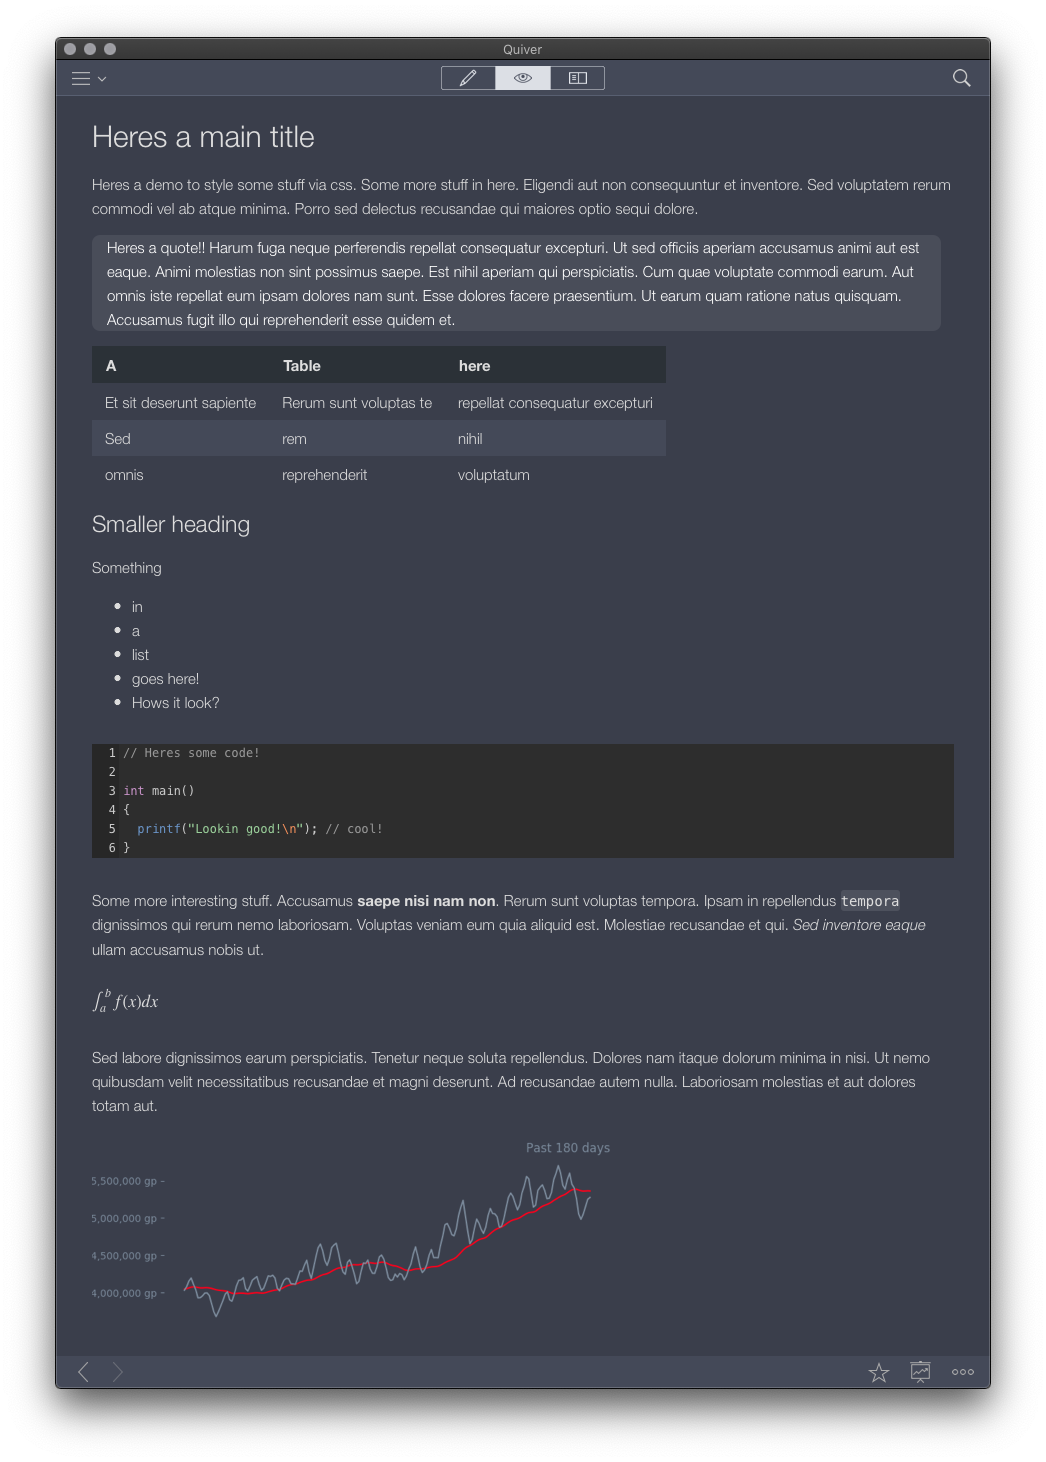
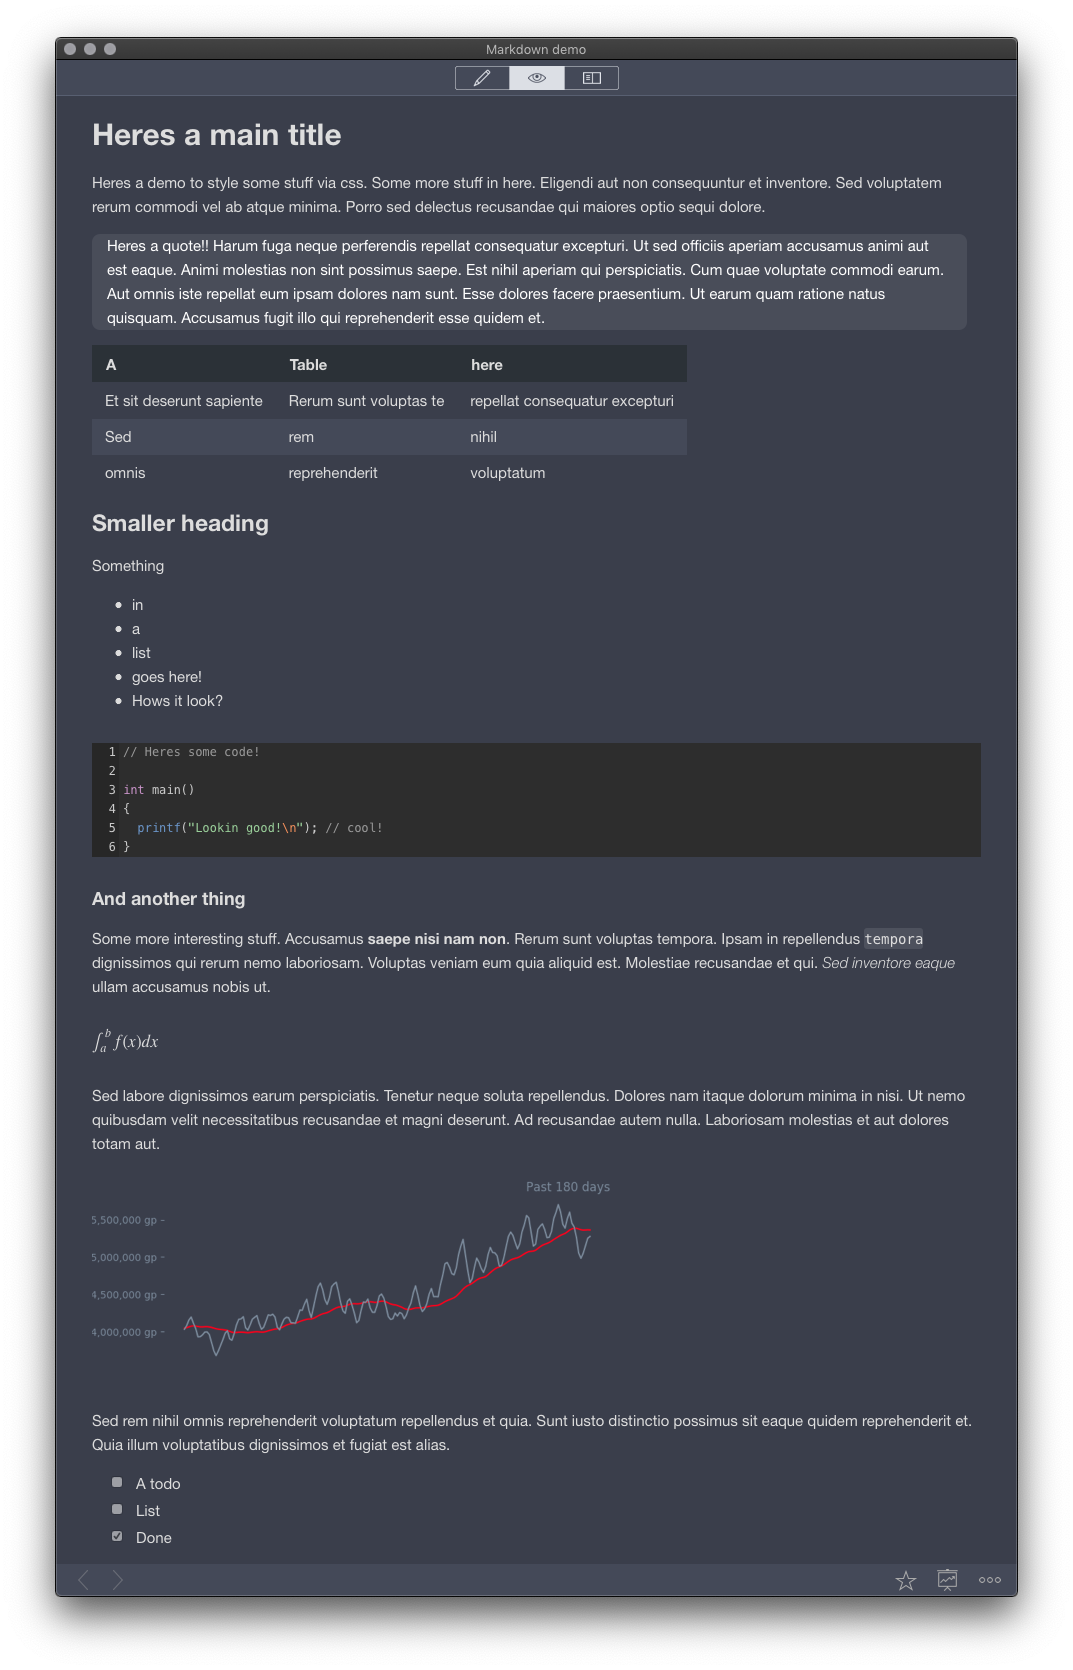
Add link to README and new screenshot

diff --git a/README.md b/README.md
@@ -1,3 +1,3 @@
-My tweak to the spacegray theme for Quiver
+My tweak to the spacegray theme for [Quiver](https://happenapps.com)
 
 ![spacegray2](spacegray.png)
